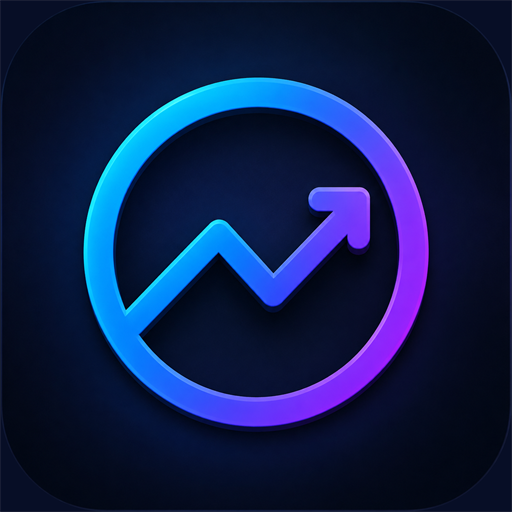
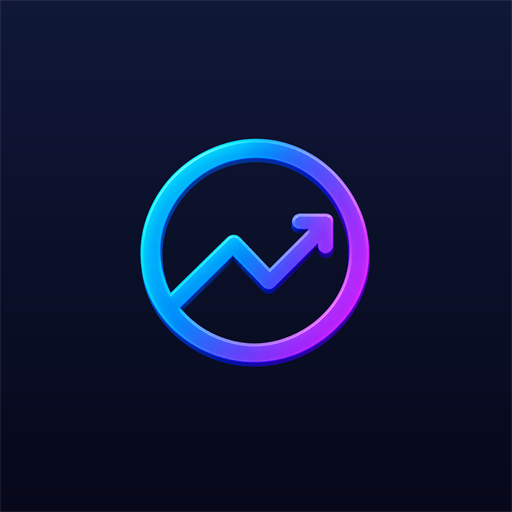
feat: Launch 화면 이식 + 아이콘 여백 재제작 + 다크 남색 그라데이션 테마
- Welcome 전면 교체(디자인 원본 Launch.dc.html): 스플래시(로고 스트로크 드로잉 SVG,
  3.8s·탭 스킵) → 시작 화면(바로 시작하기 + Google) — 로직은 기존 유지(setWelcomed·OAuth 동일 호출)
- Splash 컴포넌트 공유: 설치형 앱 콜드 스타트마다 브랜드 스플래시(세션당 1회, 웰컴 게이트와 중복 방지)
- 아이콘 재생성(icon_empty.png 누끼 로고): any 60%·maskable 54%로 여백 확보, 배경은
  Launch 그라데이션 계열. logo-mark.png 신규(화면용)
- 다크 테마: Launch 배경 radial 그라데이션(#101838→#0A0F26→#06081A) + 토큰 리튠
  (--bg #0A0F26·--dim 블루틴트 등), themeColor·manifest·twa 색 동기화

diff --git a/charty-web/src/screens/Welcome.tsx b/charty-web/src/screens/Welcome.tsx
@@ -1,22 +1,23 @@
-import { useEffect } from 'react'
+import { useEffect, useState } from 'react'
 import { useNav } from '../lib/nav'
 import { useStore } from '../store'
-import { useSession } from '../lib/supabase'
-import AuthButtons from '../components/AuthButtons'
+import { supabase, useSession } from '../lib/supabase'
+import Splash from '../components/Splash'
 
-// R12 첫 방문 웰컴 — 로그인 유도하되 Local-first 원칙대로 [로그인 없이 둘러보기] 항상 열어둠.
-// 기록이 있는 기존 유저는 shell의 게이트가 애초에 이 화면으로 보내지 않는다.
+// Launch 화면 (디자인 원본 Launch.dc.html) — 스플래시 3.8초(탭 스킵) → 시작 화면.
+// Local-first 원칙 유지: [바로 시작하기]가 1순위, 로그인은 Google만(카카오는 활성화 시 재노출, Apple은 iOS 트랙 때).
+// 기록 있는 기존 유저는 shell 게이트가 이 화면으로 보내지 않는다.
 
-const POINTS = [
-  ['📈', '티커·날짜를 가린 과거 차트로 실전처럼 매매 연습'],
-  ['📝', '주문마다 판단 이유를 기록하고 행동 리포트로 복기'],
-  ['☁', '로그인하면 기록이 계정에 저장되어 어느 기기에서든 이어짐'],
-] as const
+const pill: React.CSSProperties = {
+  borderRadius: 999, display: 'flex', alignItems: 'center', justifyContent: 'center',
+  gap: 8, cursor: 'pointer', width: '100%', fontFamily: 'inherit',
+}
 
 export default function Welcome() {
   const nav = useNav()
   const session = useSession()
   const setWelcomed = useStore((s) => s.setWelcomed)
+  const [phase, setPhase] = useState<'splash' | 'start'>('splash')
 
   // 이미 로그인된 상태로 진입하면 웰컴은 볼 이유가 없다
   useEffect(() => {
@@ -26,39 +27,65 @@ export default function Welcome() {
     }
   }, [session, setWelcomed, nav])
 
+  useEffect(() => {
+    const t = setTimeout(() => setPhase('start'), 3800)
+    return () => clearTimeout(t)
+  }, [])
+
+  const start = () => {
+    setWelcomed()
+    nav('/', { replace: true })
+  }
+  const google = () => {
+    setWelcomed()
+    supabase?.auth.signInWithOAuth({ provider: 'google', options: { redirectTo: `${location.origin}/profile` } })
+  }
+
+  const sp = phase === 'splash'
   return (
-    <div className="page" style={{ minHeight: '100dvh', justifyContent: 'center', gap: 0, paddingBottom: 32 }}>
-      <div style={{ display: 'flex', alignItems: 'center', gap: 8, justifyContent: 'center' }}>
-        <span style={{ fontSize: 30, fontWeight: 700, letterSpacing: '-0.5px' }}>차티</span>
-        <span style={{ fontSize: 11, fontWeight: 600, color: '#fff', background: 'linear-gradient(135deg, #1fb6ff, #3d5cff)', borderRadius: 999, padding: '3px 9px' }}>베타</span>
-      </div>
-      <div className="dim center" style={{ fontSize: 14, marginTop: 6 }}>차트 감각은 타고나는 게 아니라 훈련됩니다</div>
+    <div style={{ minHeight: '100dvh', position: 'relative', overflow: 'hidden', background: 'radial-gradient(130% 100% at 50% 0%, #101838 0%, #0A0F26 48%, #06081A 100%)' }}>
+      {/* 시작 화면 */}
+      <div style={{
+        position: 'absolute', inset: 0, zIndex: 1, display: 'flex', flexDirection: 'column', alignItems: 'center',
+        padding: '0 24px calc(30px + env(safe-area-inset-bottom))',
+        opacity: sp ? 0 : 1, transform: sp ? 'translateY(26px)' : 'translateY(0)',
+        transition: 'opacity 0.65s ease 0.12s, transform 0.7s cubic-bezier(0.2,0.7,0.2,1) 0.12s',
+        pointerEvents: sp ? 'none' : 'auto',
+      }}>
+        <div style={{ position: 'absolute', top: -60, left: -70, width: 260, height: 260, borderRadius: '50%', background: 'radial-gradient(circle, rgba(31,182,255,0.16), transparent 70%)', filter: 'blur(30px)', animation: 'chFloat 7s ease-in-out infinite alternate' }} />
+        <div style={{ position: 'absolute', top: 130, right: -90, width: 300, height: 300, borderRadius: '50%', background: 'radial-gradient(circle, rgba(155,47,248,0.13), transparent 70%)', filter: 'blur(34px)', animation: 'chFloat 9s ease-in-out infinite alternate-reverse' }} />
 
-      <div className="card" style={{ marginTop: 26, gap: 14, padding: '18px 16px' }}>
-        {POINTS.map(([emoji, text]) => (
-          <div key={text} style={{ display: 'flex', gap: 10, alignItems: 'flex-start' }}>
-            <span style={{ fontSize: 16 }}>{emoji}</span>
-            <span style={{ fontSize: 13, lineHeight: 1.5 }}>{text}</span>
+        <div style={{ flex: '0 0 15%' }} />
+        <img src="/logo-mark.png" alt="Charty 로고" style={{ width: 104, height: 104, filter: 'drop-shadow(0 12px 34px rgba(61,92,255,0.45))', position: 'relative' }} />
+        <div style={{ fontSize: 33, fontWeight: 800, letterSpacing: '-0.5px', color: '#F5F7FF', marginTop: 22, position: 'relative' }}>Charty</div>
+        <div style={{ fontSize: 14, lineHeight: 1.55, color: '#8A93BE', marginTop: 9, textAlign: 'center', position: 'relative', textWrap: 'pretty' }}>실제 과거 차트로 연습하는 매매 시뮬레이션</div>
+        <div style={{ flex: 1 }} />
+
+        <div style={{ width: '100%', display: 'flex', flexDirection: 'column', gap: 12, position: 'relative' }}>
+          <div>
+            <button onClick={start} style={{ ...pill, height: 54, border: 'none', background: 'linear-gradient(135deg, #1FB6FF 0%, #3D5CFF 55%, #9B2FF8 100%)', boxShadow: '0 10px 28px rgba(61,92,255,0.35)', color: '#fff', fontSize: 16, fontWeight: 700 }}>
+              바로 시작하기
+            </button>
+            <div style={{ fontSize: 12, color: '#8A93BE', textAlign: 'center', marginTop: 9 }}>가입 없이 시작해요 · 기록은 이 기기에 저장돼요</div>
           </div>
-        ))}
+          <div style={{ display: 'flex', alignItems: 'center', gap: 10, margin: '2px 0' }}>
+            <div style={{ flex: 1, height: 1, background: 'rgba(138,155,255,0.16)' }} />
+            <span style={{ fontSize: 11, color: '#6C7396' }}>또는</span>
+            <div style={{ flex: 1, height: 1, background: 'rgba(138,155,255,0.16)' }} />
+          </div>
+          <button onClick={google} style={{ ...pill, height: 50, background: 'rgba(255,255,255,0.06)', border: '1px solid rgba(138,155,255,0.2)', color: '#F2F4FF', fontSize: 15, fontWeight: 600 }}>
+            <svg width="16" height="16" viewBox="0 0 18 18"><path fill="#4285F4" d="M17.64 9.2045c0-.6381-.0573-1.2518-.1636-1.8409H9v3.4814h4.8436c-.2086 1.125-.8427 2.0782-1.7959 2.7164v2.2581h2.9087c1.7018-1.5668 2.6836-3.874 2.6836-6.615z"></path><path fill="#34A853" d="M9 18c2.43 0 4.4673-.8059 5.9564-2.1805l-2.9087-2.2581c-.8059.54-1.8368.859-3.0477.859-2.344 0-4.3282-1.5831-5.036-3.7104H.9574v2.3318C2.4382 15.9832 5.4818 18 9 18z"></path><path fill="#FBBC05" d="M3.964 10.71c-.18-.54-.2822-1.1168-.2822-1.71s.1023-1.17.2823-1.71V4.9582H.9573A8.9965 8.9965 0 0 0 0 9c0 1.4523.3477 2.8268.9573 4.0418L3.964 10.71z"></path><path fill="#EA4335" d="M9 3.5795c1.3214 0 2.5077.4541 3.4405 1.346l2.5813-2.5814C13.4632.8918 11.4259 0 9 0 5.4818 0 2.4382 2.0168.9573 4.9582L3.964 7.29C4.6718 5.1627 6.656 3.5795 9 3.5795z"></path></svg>
+            Google로 계속하기
+          </button>
+        </div>
+
+        <div style={{ fontSize: 11, lineHeight: 1.6, color: '#5F6683', textAlign: 'center', marginTop: 18, position: 'relative', maxWidth: 300, textWrap: 'pretty' }}>
+          시작하면 <span onClick={() => nav('/privacy')} style={{ textDecoration: 'underline', color: '#8FA0D8', cursor: 'pointer' }}>개인정보 처리방침</span>에 동의한 것으로 봐요
+        </div>
       </div>
 
-      <div style={{ display: 'flex', flexDirection: 'column', gap: 10, marginTop: 22 }}>
-        <AuthButtons redirectPath="/profile" beforeSignIn={setWelcomed} />
-        {matchMedia('(display-mode: standalone)').matches && (
-          <div className="dim center" style={{ fontSize: 12 }}>웹에서 쌓은 기록은 로그인하면 여기로 이어집니다</div>
-        )}
-        <button
-          className="dim"
-          style={{ background: 'transparent', fontSize: 13, padding: '10px 0', textDecoration: 'underline', textUnderlineOffset: 3 }}
-          onClick={() => {
-            setWelcomed()
-            nav('/', { replace: true })
-          }}
-        >
-          로그인 없이 둘러보기
-        </button>
-      </div>
+      {/* 스플래시 페이즈 — hidden 전환으로 페이드아웃 */}
+      <Splash hidden={!sp} onSkip={() => setPhase('start')} />
     </div>
   )
 }

diff --git a/charty-web/src/index.css b/charty-web/src/index.css
@@ -15,54 +15,59 @@
   --nav: rgba(245, 245, 247, 0.8);
   --accent-soft: rgba(61, 92, 255, 0.06);
   --toast-bg: rgba(29, 29, 31, 0.88);
+  --bg-image: none; /* 다크에서만 Launch 디자인의 radial 그라데이션 */
   /* R16 AI 해석 카드 — 디자인 원본 Simulation News.dc.html의 aiBorder/aiInner */
   --ai-border: linear-gradient(135deg, rgba(31, 182, 255, 0.55), rgba(61, 92, 255, 0.4) 55%, rgba(155, 47, 248, 0.55));
   --ai-inner: linear-gradient(135deg, rgba(31, 182, 255, 0.05), rgba(155, 47, 248, 0.05)), #ffffff;
 }
 
 /* 다크 값: 시스템 다크(수동 라이트 미지정 시) + 수동 다크 — 두 셀렉터에 동일 적용 */
-/* 다크 램프는 앱 아이콘의 남색 계열(#070E26~#121E43)에 맞춤 — 스플래시·상태바(#0B1226)와 한 톤 */
+/* 다크 램프는 Launch 디자인의 남색 그라데이션(#101838→#0A0F26→#06081A) 계열 — 아이콘·스플래시·상태바와 한 톤 */
 @media (prefers-color-scheme: dark) {
   :root:not([data-theme='light']) {
-    --bg: #0b1226;
-    --card: #161d33;
-    --card2: #1f2740;
-    --hairline: #2a3248;
+    --bg: #0a0f26;
+    --bg-image: radial-gradient(130% 100% at 50% 0%, #101838 0%, #0a0f26 48%, #06081a 100%);
+    --card: #151c33;
+    --card2: #1e2542;
+    --hairline: #252e4d;
     --accent: #5ca8ff;
     --green: #30d158;
     --red: #ff453a;
     --danger: #ff453a;
     --text: #f5f5f7;
-    --dim: #b5b5ba;
-    --nav: rgba(11, 18, 38, 0.85);
+    --dim: #8a93be;
+    --nav: rgba(10, 15, 38, 0.85);
     --accent-soft: rgba(92, 168, 255, 0.1);
-    --toast-bg: rgba(42, 50, 72, 0.92);
+    --toast-bg: rgba(38, 46, 72, 0.92);
     --ai-border: linear-gradient(135deg, rgba(31, 182, 255, 0.7), rgba(61, 92, 255, 0.55) 55%, rgba(155, 47, 248, 0.7));
-    --ai-inner: linear-gradient(135deg, rgba(31, 182, 255, 0.07), rgba(155, 47, 248, 0.07)), #161d33;
+    --ai-inner: linear-gradient(135deg, rgba(31, 182, 255, 0.07), rgba(155, 47, 248, 0.07)), #151c33;
   }
 }
 :root[data-theme='dark'] {
-  --bg: #0b1226;
-  --card: #161d33;
-  --card2: #1f2740;
-  --hairline: #2a3248;
+  --bg: #0a0f26;
+  --bg-image: radial-gradient(130% 100% at 50% 0%, #101838 0%, #0a0f26 48%, #06081a 100%);
+  --card: #151c33;
+  --card2: #1e2542;
+  --hairline: #252e4d;
   --accent: #5ca8ff;
   --green: #30d158;
   --red: #ff453a;
   --danger: #ff453a;
   --text: #f5f5f7;
-  --dim: #b5b5ba;
-  --nav: rgba(11, 18, 38, 0.85);
+  --dim: #8a93be;
+  --nav: rgba(10, 15, 38, 0.85);
   --accent-soft: rgba(92, 168, 255, 0.1);
-  --toast-bg: rgba(42, 50, 72, 0.92);
+  --toast-bg: rgba(38, 46, 72, 0.92);
   --ai-border: linear-gradient(135deg, rgba(31, 182, 255, 0.7), rgba(61, 92, 255, 0.55) 55%, rgba(155, 47, 248, 0.7));
-  --ai-inner: linear-gradient(135deg, rgba(31, 182, 255, 0.07), rgba(155, 47, 248, 0.07)), #161d33;
+  --ai-inner: linear-gradient(135deg, rgba(31, 182, 255, 0.07), rgba(155, 47, 248, 0.07)), #151c33;
 }
 
 html, body { height: 100%; }
 
 body {
   background: var(--bg);
+  background-image: var(--bg-image); /* 다크 전용 radial 그라데이션 (라이트는 none) */
+  background-attachment: fixed;
   color: var(--text);
   font-family: 'Pretendard', -apple-system, BlinkMacSystemFont, 'Segoe UI', 'Malgun Gothic', sans-serif;
   -webkit-font-smoothing: antialiased;
@@ -922,3 +927,11 @@ dialog .actions .pill-secondary { color: var(--text); font-size: 15px; }
   .card { padding: 16px; }
   .filter-chips { margin-left: -12px; margin-right: -12px; padding-left: 12px; padding-right: 12px; } /* 음수 마진을 줄어든 패딩에 맞춤 */
 }
+
+/* Launch 스플래시 — 디자인 원본 Launch.dc.html의 키프레임 그대로 */
+@keyframes chDraw { to { stroke-dashoffset: 0; } }
+@keyframes chFadeOut { to { opacity: 0; } }
+@keyframes chFade { from { opacity: 0; } to { opacity: 1; } }
+@keyframes chUp { from { opacity: 0; transform: translateY(12px); } to { opacity: 1; transform: translateY(0); } }
+@keyframes chPulse { 0%, 100% { opacity: 0.45; transform: scale(1); } 50% { opacity: 0.8; transform: scale(1.1); } }
+@keyframes chFloat { from { transform: translateY(0); } to { transform: translateY(-14px); } }

diff --git a/charty-web/src/components/Splash.tsx b/charty-web/src/components/Splash.tsx
@@ -1,0 +1,37 @@
+// Launch 스플래시 비주얼 (디자인 원본 Launch.dc.html) — 로고 스트로크 드로잉 → 로고 크로스페이드 → 타이틀.
+// Welcome(웰컴 페이즈)과 shell(설치형 앱 콜드 스타트 오버레이)이 공유. 키프레임(ch*)은 index.css.
+export default function Splash({ hidden, onSkip }: { hidden: boolean; onSkip: () => void }) {
+  return (
+    <div
+      onClick={onSkip}
+      style={{
+        position: 'absolute', inset: 0, zIndex: 2, display: 'flex', flexDirection: 'column',
+        alignItems: 'center', justifyContent: 'center', cursor: 'pointer',
+        background: 'radial-gradient(130% 100% at 50% 0%, #101838 0%, #0A0F26 48%, #06081A 100%)',
+        opacity: hidden ? 0 : 1, transform: hidden ? 'scale(1.07)' : 'scale(1)',
+        transition: 'opacity 0.6s ease 0.05s, transform 0.6s ease 0.05s',
+        pointerEvents: hidden ? 'none' : 'auto',
+      }}
+    >
+      <div style={{ position: 'absolute', width: 240, height: 240, borderRadius: '50%', background: 'radial-gradient(circle, rgba(61,92,255,0.3), transparent 65%)', filter: 'blur(40px)', animation: 'chPulse 3s ease-in-out infinite' }} />
+      <div style={{ width: 132, height: 132, position: 'relative', filter: 'drop-shadow(0 10px 30px rgba(80,110,255,0.5))' }}>
+        <svg width="132" height="132" viewBox="0 0 120 120" fill="none" style={{ position: 'absolute', inset: 0, animation: 'chFadeOut 0.45s ease 2s both' }}>
+          <defs>
+            <linearGradient id="chLg" gradientUnits="userSpaceOnUse" x1="12" y1="78" x2="108" y2="42">
+              <stop offset="0" stopColor="#22D3FF" />
+              <stop offset="0.5" stopColor="#3D5CFF" />
+              <stop offset="1" stopColor="#A94BFF" />
+            </linearGradient>
+          </defs>
+          <path d="M60 15.3 A44.7 44.7 0 0 1 60 104.7 A44.7 44.7 0 0 1 60 15.3" stroke="url(#chLg)" strokeWidth="9.2" strokeLinecap="round" pathLength={100} style={{ strokeDasharray: 100, strokeDashoffset: 100, animation: 'chDraw 0.9s cubic-bezier(0.55,0,0.3,1) 0.1s both' }} />
+          <polyline points="27.5,82.5 50,52.5 65,71.5 84.5,49.5" stroke="url(#chLg)" strokeWidth="9.2" strokeLinecap="round" strokeLinejoin="round" pathLength={100} style={{ strokeDasharray: 100, strokeDashoffset: 100, animation: 'chDraw 0.7s cubic-bezier(0.4,0,0.3,1) 1.05s both' }} />
+          <path d="M91.8 41.3 L88.6 56.6 L77 46.2 Z" fill="url(#chLg)" style={{ opacity: 0, animation: 'chFade 0.3s ease 1.7s both' }} />
+        </svg>
+        <img src="/logo-mark.png" alt="" style={{ position: 'absolute', inset: 0, width: 132, height: 132, opacity: 0, animation: 'chFade 0.45s ease 1.95s both' }} />
+      </div>
+      <div style={{ fontSize: 32, fontWeight: 800, letterSpacing: '-0.5px', color: '#F5F7FF', marginTop: 26, opacity: 0, animation: 'chUp 0.55s cubic-bezier(0.2,0.7,0.2,1) 2.1s both', position: 'relative' }}>Charty</div>
+      <div style={{ fontSize: 13, color: '#8A93BE', marginTop: 8, opacity: 0, animation: 'chUp 0.55s cubic-bezier(0.2,0.7,0.2,1) 2.25s both', position: 'relative' }}>차트 위에서 배우는 매매 감각</div>
+      <div style={{ position: 'absolute', bottom: 64, fontSize: 11, color: 'rgba(154,163,199,0.55)', opacity: 0, animation: 'chFade 0.6s ease 2s both' }}>탭해서 건너뛰기</div>
+    </div>
+  )
+}

diff --git a/charty-web/app/shell.tsx b/charty-web/app/shell.tsx
@@ -3,6 +3,7 @@ import { useEffect, useState, type ReactNode } from 'react'
 import Link from 'next/link'
 import { usePathname, useRouter } from 'next/navigation'
 import { useStore } from '../src/store'
+import Splash from '../src/components/Splash'
 import { START_BALANCE } from '../src/lib/data'
 import { supabase } from '../src/lib/supabase'
 import { applyServer, initStateSync, pickState, pullState, pushState, syncRecords } from '../src/lib/sync'
@@ -34,6 +35,25 @@ export default function Shell({ children }: { children: ReactNode }) {
   useEffect(() => {
     if ('serviceWorker' in navigator) navigator.serviceWorker.register('/sw.js').catch(() => {})
   }, [])
+
+  // 설치형 앱 콜드 스타트 브랜드 스플래시 — 실행(브라우저 세션)당 1회. /welcome(자체 스플래시)과
+  // 웰컴 게이트로 갈 신규 유저는 제외해 이중 노출 방지
+  const [splash, setSplash] = useState<'on' | 'off' | null>(null)
+  useEffect(() => {
+    try {
+      if (!matchMedia('(display-mode: standalone)').matches || sessionStorage.getItem('charty:splashed')) return
+      sessionStorage.setItem('charty:splashed', '1')
+      const s = useStore.getState()
+      const willWelcome = !s.welcomed && s.records.length === 0 && !s.activeSim
+      if (window.location.pathname.startsWith('/welcome') || willWelcome) return
+      setSplash('on')
+    } catch { /* sessionStorage 접근 불가 환경 — 스플래시 생략 */ }
+  }, [])
+  useEffect(() => {
+    if (!splash) return
+    const t = setTimeout(() => setSplash(splash === 'on' ? 'off' : null), splash === 'on' ? 3000 : 700)
+    return () => clearTimeout(t)
+  }, [splash])
 
   // ponytail: 구 HashRouter URL(/#/sim) 리다이렉트 — 몇 달 뒤 삭제
   useEffect(() => {
@@ -105,6 +125,11 @@ export default function Shell({ children }: { children: ReactNode }) {
 
   return (
     <div className="app">
+      {splash && (
+        <div style={{ position: 'fixed', inset: 0, zIndex: 100 }}>
+          <Splash hidden={splash === 'off'} onSkip={() => setSplash('off')} />
+        </div>
+      )}
       <main className={onSim ? 'content no-tab' : 'content'}>{mounted ? children : null}</main>
       {!onSim && (
         <nav className="tabbar">

diff --git a/charty-web/app/layout.tsx b/charty-web/app/layout.tsx
@@ -15,7 +15,7 @@ export const viewport: Viewport = {
   initialScale: 1,
   viewportFit: 'cover',
   themeColor: [
-    { media: '(prefers-color-scheme: dark)', color: '#0B1226' },
+    { media: '(prefers-color-scheme: dark)', color: '#0A0F26' },
     { media: '(prefers-color-scheme: light)', color: '#F5F5F7' },
   ],
 }
